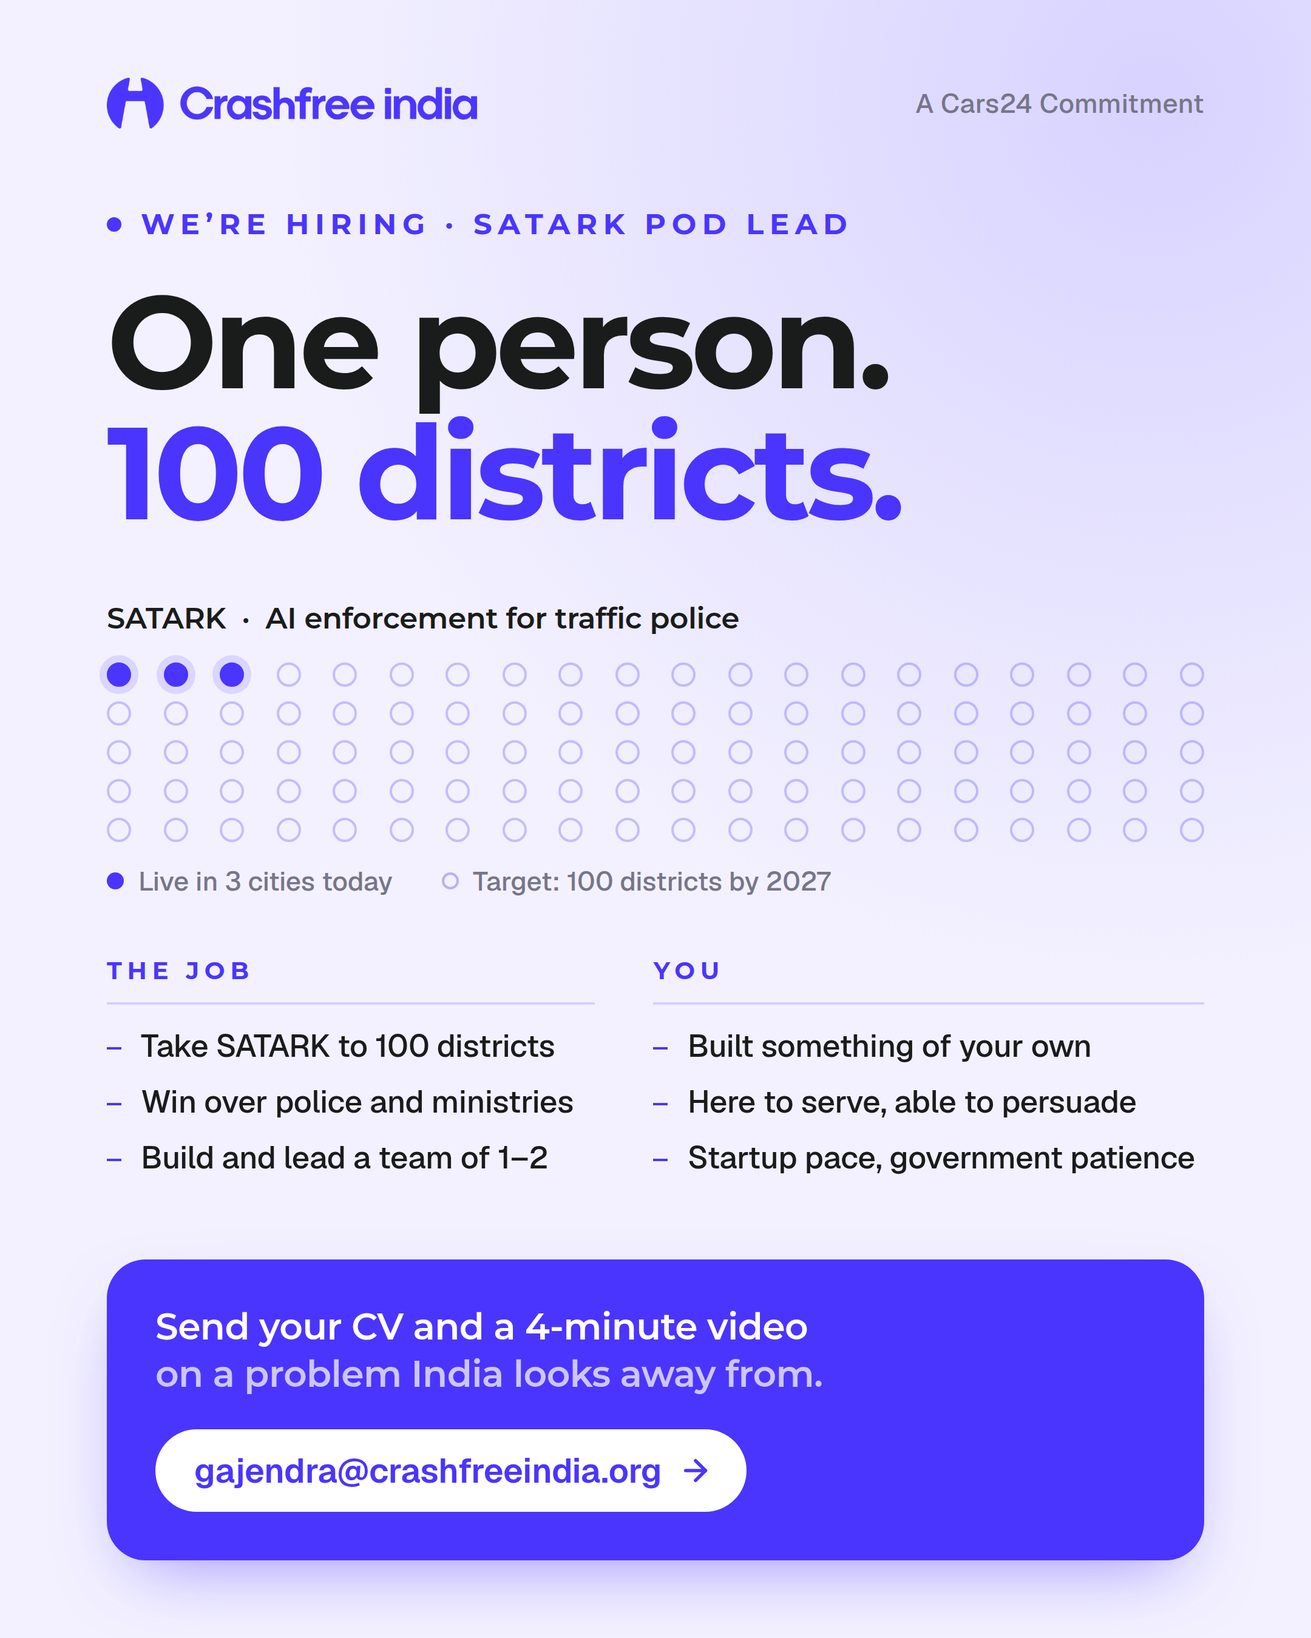
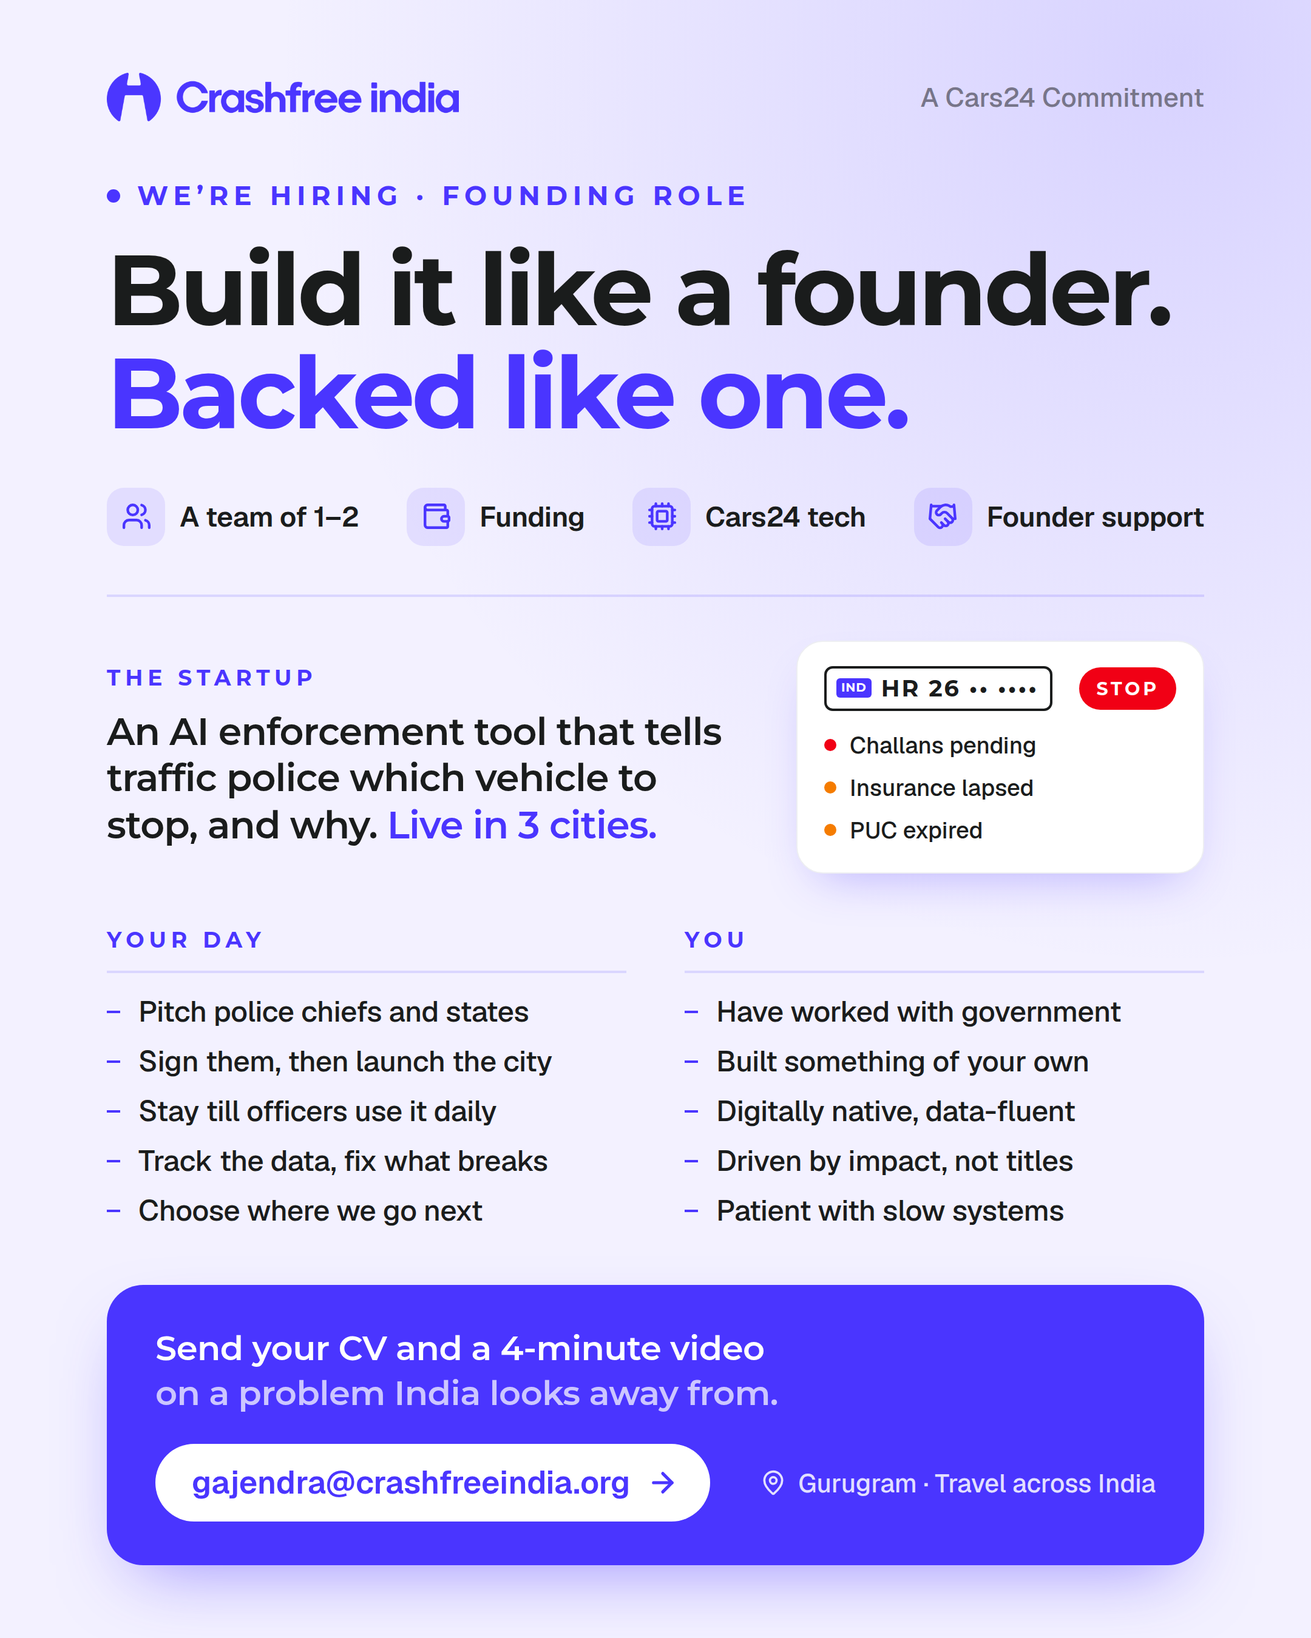
LinkedIn poster v2: founder/backing headline, no SATARK name, clearer day and qualifications
Headline 'Build it like a founder. Backed like one.' with team/funding/tech/founder
support strip; product described as an AI enforcement startup with an illustrative
alert card; 'Your day' and 'You' lists expanded. Post copy rewritten to match.

Claude-Session: https://claude.ai/code/session_018j4A9e7gCuU8GZCtHhJEqG

diff --git a/hiring/outreach/linkedin/poster.html b/hiring/outreach/linkedin/poster.html
@@ -2,10 +2,10 @@
 <html lang="en">
 <head>
 <meta charset="utf-8">
-<title>SATARK Pod Lead</title>
+<title>Founding Role</title>
 <link rel="preconnect" href="https://fonts.googleapis.com">
 <link href="https://fonts.googleapis.com/css2?family=Geist:wght@400;500;600&family=Montserrat:wght@500;600;700&display=swap" rel="stylesheet">
-<!-- Render: 1080x1350 viewport, deviceScaleFactor 2, screenshot -> 2160x2700 PNG (LinkedIn 4:5). -->
+<!-- Render: 1080x1350 viewport, deviceScaleFactor 2, screenshot -> 2160x2700 PNG (LinkedIn 4:5). Icons: Lucide (ISC). -->
 <style>
 
   :root {
@@ -14,176 +14,142 @@
     --fg: #1A1C1C;
     --muted: #777589;
     --border: #EDEEF2;
+    --danger: #F10015;
+    --warn: #F57C00;
     --white: #FFFFFF;
   }
   * { box-sizing: border-box; margin: 0; padding: 0; }
   html, body { width: 1080px; height: 1350px; }
-  body {
-    background: var(--brand-lite);
-    font-family: "Geist", sans-serif;
-    color: var(--fg);
-    -webkit-font-smoothing: antialiased;
-  }
-  .poster {
-    position: relative;
-    width: 1080px; height: 1350px;
-    padding: 64px 88px 64px;
-    overflow: hidden;
-    display: flex; flex-direction: column;
-  }
-  /* single radial brand glow (the only gradient the system allows) */
-  .glow {
-    position: absolute; inset: 0; pointer-events: none;
-    background: radial-gradient(circle at 88% 6%, rgba(74,53,255,0.16), rgba(74,53,255,0) 46%);
-  }
+  body { background: var(--brand-lite); font-family: "Geist", sans-serif; color: var(--fg); -webkit-font-smoothing: antialiased; }
+  .poster { position: relative; width: 1080px; height: 1350px; padding: 60px 88px 60px; overflow: hidden; display: flex; flex-direction: column; }
+  .glow { position: absolute; inset: 0; pointer-events: none;
+    background: radial-gradient(circle at 90% 4%, rgba(74,53,255,0.16), rgba(74,53,255,0) 46%); }
   .poster > *:not(.glow) { position: relative; }
 
-  /* top bar */
   .top { display: flex; align-items: center; justify-content: space-between; }
-  .top img { height: 42px; display: block; }
-  .top .partner { font-family: "Geist"; font-weight: 500; font-size: 22px; color: var(--muted); letter-spacing: 0.01em; }
+  .top img { height: 40px; display: block; }
+  .top .partner { font-weight: 500; font-size: 22px; color: var(--muted); }
 
-  /* hero */
-  .eyebrow {
-    margin-top: 64px;
-    display: inline-flex; align-items: center; gap: 16px;
-    font-family: "Montserrat"; font-weight: 700; font-size: 24px;
-    letter-spacing: 0.2em; color: var(--brand);
-  }
-  .eyebrow .dot { width: 12px; height: 12px; border-radius: 50%; background: var(--brand); }
-  h1 {
-    margin-top: 28px;
-    font-family: "Montserrat"; font-weight: 700;
-    font-size: 108px; line-height: 1.0; letter-spacing: -0.035em;
-  }
+  .eyebrow { margin-top: 48px; display: inline-flex; align-items: center; gap: 14px;
+    font-family: "Montserrat"; font-weight: 700; font-size: 22px; letter-spacing: 0.2em; color: var(--brand); }
+  .eyebrow .dot { width: 11px; height: 11px; border-radius: 50%; background: var(--brand); }
+
+  h1 { margin-top: 22px; font-family: "Montserrat"; font-weight: 700;
+    font-size: 82px; line-height: 1.04; letter-spacing: -0.035em; }
   h1 .accent { color: var(--brand); }
 
-  /* SATARK band: 100 districts as 100 dots */
-  .band { margin-top: 52px; }
-  .band-title {
-    display: flex; align-items: baseline; justify-content: space-between;
-    font-family: "Montserrat"; font-weight: 600; font-size: 24px; color: var(--fg);
-    letter-spacing: -0.005em;
-  }
-  .dots {
-    margin-top: 22px;
-    display: grid; grid-template-columns: repeat(20, 20px); justify-content: space-between; row-gap: 12px;
-  }
-  .dots span {
-    width: 20px; height: 20px; border-radius: 50%;
-    border: 2px solid rgba(74,53,255,0.28);
-  }
-  .dots span.live { background: var(--brand); border-color: var(--brand); box-shadow: 0 0 0 6px rgba(74,53,255,0.14); }
-  .legend { margin-top: 18px; display: flex; gap: 40px; }
-  .legend div {
-    display: flex; align-items: center; gap: 12px;
-    font-family: "Geist"; font-weight: 500; font-size: 22px; color: var(--muted);
-  }
-  .legend i { width: 14px; height: 14px; border-radius: 50%; flex: none; }
-  .legend i.live { background: var(--brand); }
-  .legend i.next { border: 2px solid rgba(74,53,255,0.35); }
+  /* the backing, made explicit */
+  .backing { margin-top: 34px; display: grid; grid-template-columns: repeat(4, auto); justify-content: space-between; }
+  .backing div { display: flex; align-items: center; gap: 12px; font-weight: 600; font-size: 23px; letter-spacing: -0.01em; }
+  .backing .ic { width: 48px; height: 48px; border-radius: 14px; background: rgba(74,53,255,0.10); color: var(--brand);
+    display: flex; align-items: center; justify-content: center; flex: none; }
+  .backing .ic svg { width: 25px; height: 25px; stroke-width: 2.1; }
 
-  /* job / you, side by side */
-  .cols { margin-top: 48px; display: grid; grid-template-columns: minmax(0, 0.94fr) minmax(0, 1.06fr); column-gap: 48px; }
-  .label {
-    font-family: "Montserrat"; font-weight: 700; font-size: 20px;
-    letter-spacing: 0.22em; color: var(--brand);
-    padding-bottom: 14px; border-bottom: 2px solid rgba(74,53,255,0.18);
-  }
-  ul { list-style: none; margin-top: 18px; }
-  li {
-    font-family: "Geist"; font-weight: 500; font-size: 26px; line-height: 1.3;
-    letter-spacing: -0.01em; white-space: nowrap;
-    padding-left: 28px; position: relative;
-  }
-  li + li { margin-top: 12px; }
-  li::before {
-    content: ""; position: absolute; left: 0; top: 17px;
-    width: 12px; height: 2px; background: var(--brand);
-  }
+  /* the startup: statement + illustrative alert card */
+  .startup { margin-top: 40px; padding-top: 36px; border-top: 2px solid rgba(74,53,255,0.14);
+    display: grid; grid-template-columns: 1fr 336px; column-gap: 44px; align-items: center; }
+  .label { font-family: "Montserrat"; font-weight: 700; font-size: 18px; letter-spacing: 0.22em; color: var(--brand); }
+  .startup p { margin-top: 14px; font-family: "Montserrat"; font-weight: 600; font-size: 31px; line-height: 1.24; letter-spacing: -0.015em; }
+  .startup p .soft { color: var(--brand); }
 
-  /* CTA */
-  .cta {
-    margin-top: auto;
-    background: var(--brand); color: var(--white);
-    border-radius: 32px; padding: 36px 40px 40px;
-    box-shadow: 0 24px 60px -24px rgba(74,53,255,0.55);
-  }
-  .cta p {
-    font-family: "Montserrat"; font-weight: 600; font-size: 30px; line-height: 1.3;
-    letter-spacing: -0.01em;
-  }
+  .card { background: var(--white); border: 1px solid var(--border); border-radius: 22px; padding: 20px 22px 22px;
+    box-shadow: 0 18px 40px -18px rgba(74,53,255,0.35); }
+  .card .head { display: flex; align-items: center; justify-content: space-between; }
+  .plate { font-family: "Montserrat"; font-weight: 700; font-size: 19px; letter-spacing: 0.08em;
+    border: 2px solid var(--fg); border-radius: 7px; padding: 5px 10px 5px 8px; display: inline-flex; align-items: center; gap: 8px; }
+  .plate i { font-style: normal; font-size: 10px; letter-spacing: 0.04em; background: var(--brand); color: var(--white);
+    border-radius: 3px; padding: 3px 4px; line-height: 1; }
+  .stop { background: var(--danger); color: var(--white); font-family: "Montserrat"; font-weight: 700; font-size: 15px;
+    letter-spacing: 0.16em; border-radius: 999px; padding: 8px 14px; }
+  .rows { margin-top: 16px; display: flex; flex-direction: column; gap: 10px; }
+  .rows div { display: flex; align-items: center; gap: 11px; font-weight: 500; font-size: 19px; }
+  .rows b { width: 10px; height: 10px; border-radius: 50%; flex: none; }
+  .rows b.r { background: var(--danger); } .rows b.o { background: var(--warn); }
+
+  /* job + you */
+  .cols { margin-top: 44px; display: grid; grid-template-columns: minmax(0, 1fr) minmax(0, 1fr); column-gap: 48px; }
+  .cols .label { padding-bottom: 14px; border-bottom: 2px solid rgba(74,53,255,0.14); }
+  ul { list-style: none; margin-top: 16px; }
+  li { font-weight: 500; font-size: 24px; line-height: 1.3; letter-spacing: -0.01em; white-space: nowrap; padding-left: 26px; position: relative; }
+  li + li { margin-top: 10px; }
+  li::before { content: ""; position: absolute; left: 0; top: 15px; width: 11px; height: 2px; background: var(--brand); }
+
+  .cta { margin-top: auto; background: var(--brand); color: var(--white); border-radius: 30px; padding: 34px 40px 36px;
+    box-shadow: 0 24px 60px -24px rgba(74,53,255,0.55); }
+  .cta p { font-family: "Montserrat"; font-weight: 600; font-size: 28px; line-height: 1.3; letter-spacing: -0.01em; }
   .cta p .soft { color: rgba(255,255,255,0.72); }
-  .cta .row { margin-top: 26px; display: flex; align-items: center; justify-content: space-between; }
-  .pill {
-    display: inline-flex; align-items: center; gap: 14px;
-    background: var(--white); color: var(--brand);
-    height: 68px; padding: 0 28px 0 32px; border-radius: 999px;
-    font-family: "Geist"; font-weight: 600; font-size: 28px; letter-spacing: -0.005em;
-  }
-  .pill svg { width: 28px; height: 28px; }
-  .meta {
-    display: flex; flex-direction: column; align-items: flex-end; gap: 6px;
-    font-family: "Geist"; font-weight: 500; font-size: 19px; color: rgba(255,255,255,0.78);
-  }
+  .cta .row { margin-top: 24px; display: flex; align-items: center; justify-content: space-between; }
+  .pill { display: inline-flex; align-items: center; gap: 14px; background: var(--white); color: var(--brand);
+    height: 64px; padding: 0 26px 0 30px; border-radius: 999px; font-weight: 600; font-size: 26px; }
+  .pill svg { width: 26px; height: 26px; stroke-width: 2.4; }
+  .meta { display: flex; align-items: center; gap: 10px; font-weight: 500; font-size: 21px; color: rgba(255,255,255,0.85); }
+  .meta svg { width: 22px; height: 22px; stroke-width: 2; }
 </style>
 </head>
 <body>
-  <div class="poster">
-    <div class="glow" aria-hidden="true"></div>
+<div class="poster">
+  <div class="glow" aria-hidden="true"></div>
 
-    <div class="top">
-      <img src="cfi_logo_blue_t.png" alt="Crashfree India">
-      <div class="partner">A Cars24 Commitment</div>
+  <div class="top">
+    <img src="cfi_logo_blue_t.png" alt="Crashfree India">
+    <div class="partner">A Cars24 Commitment</div>
+  </div>
+
+  <div class="eyebrow"><span class="dot"></span>WE’RE HIRING · FOUNDING ROLE</div>
+  <h1>Build it like a founder.<br><span class="accent">Backed like one.</span></h1>
+
+  <div class="backing">
+    <div><span class="ic"><svg xmlns="http://www.w3.org/2000/svg" viewBox="0 0 24 24" fill="none" stroke="currentColor" stroke-width="2" stroke-linecap="round" stroke-linejoin="round" > <path d="M16 21v-2a4 4 0 0 0-4-4H6a4 4 0 0 0-4 4v2" /> <path d="M16 3.128a4 4 0 0 1 0 7.744" /> <path d="M22 21v-2a4 4 0 0 0-3-3.87" /> <circle cx="9" cy="7" r="4" /> </svg></span>A team of 1–2</div>
+    <div><span class="ic"><svg xmlns="http://www.w3.org/2000/svg" viewBox="0 0 24 24" fill="none" stroke="currentColor" stroke-width="2" stroke-linecap="round" stroke-linejoin="round" > <path d="M19 7V4a1 1 0 0 0-1-1H5a2 2 0 0 0 0 4h15a1 1 0 0 1 1 1v4h-3a2 2 0 0 0 0 4h3a1 1 0 0 0 1-1v-2a1 1 0 0 0-1-1" /> <path d="M3 5v14a2 2 0 0 0 2 2h15a1 1 0 0 0 1-1v-4" /> </svg></span>Funding</div>
+    <div><span class="ic"><svg xmlns="http://www.w3.org/2000/svg" viewBox="0 0 24 24" fill="none" stroke="currentColor" stroke-width="2" stroke-linecap="round" stroke-linejoin="round" > <path d="M12 20v2" /> <path d="M12 2v2" /> <path d="M17 20v2" /> <path d="M17 2v2" /> <path d="M2 12h2" /> <path d="M2 17h2" /> <path d="M2 7h2" /> <path d="M20 12h2" /> <path d="M20 17h2" /> <path d="M20 7h2" /> <path d="M7 20v2" /> <path d="M7 2v2" /> <rect x="4" y="4" width="16" height="16" rx="2" /> <rect x="8" y="8" width="8" height="8" rx="1" /> </svg></span>Cars24 tech</div>
+    <div><span class="ic"><svg xmlns="http://www.w3.org/2000/svg" viewBox="0 0 24 24" fill="none" stroke="currentColor" stroke-width="2" stroke-linecap="round" stroke-linejoin="round" > <path d="m11 17 2 2a1 1 0 1 0 3-3" /> <path d="m14 14 2.5 2.5a1 1 0 1 0 3-3l-3.88-3.88a3 3 0 0 0-4.24 0l-.88.88a1 1 0 1 1-3-3l2.81-2.81a5.79 5.79 0 0 1 7.06-.87l.47.28a2 2 0 0 0 1.42.25L21 4" /> <path d="m21 3 1 11h-2" /> <path d="M3 3 2 14l6.5 6.5a1 1 0 1 0 3-3" /> <path d="M3 4h8" /> </svg></span>Founder support</div>
+  </div>
+
+  <div class="startup">
+    <div>
+      <div class="label">THE STARTUP</div>
+      <p>An AI enforcement tool that tells traffic police which vehicle to stop, and why. <span class="soft">Live in 3 cities.</span></p>
     </div>
-
-    <div class="eyebrow"><span class="dot"></span>WE’RE HIRING · SATARK POD LEAD</div>
-    <h1>One person.<br><span class="accent">100 districts.</span></h1>
-
-    <div class="band">
-      <div class="band-title">SATARK &nbsp;·&nbsp; AI enforcement for traffic police</div>
-      <div class="dots" id="dots"></div>
-      <div class="legend">
-        <div><i class="live"></i>Live in 3 cities today</div>
-        <div><i class="next"></i>Target: 100 districts by 2027</div>
-      </div>
-    </div>
-
-    <div class="cols">
-      <div>
-        <div class="label">THE JOB</div>
-        <ul>
-          <li>Take SATARK to 100 districts</li>
-          <li>Win over police and ministries</li>
-          <li>Build and lead a team of 1–2</li>
-        </ul>
-      </div>
-      <div>
-        <div class="label">YOU</div>
-        <ul>
-          <li>Built something of your own</li>
-          <li>Here to serve, able to persuade</li>
-          <li>Startup pace, government patience</li>
-        </ul>
-      </div>
-    </div>
-
-    <div class="cta">
-      <p>Send your CV and a 4-minute video<br><span class="soft">on a problem India looks away from.</span></p>
-      <div class="row">
-        <div class="pill">gajendra@crashfreeindia.org
-          <svg viewBox="0 0 24 24" fill="none" stroke="currentColor" stroke-width="2.4" stroke-linecap="round" stroke-linejoin="round"><path d="M5 12h14"/><path d="m12 5 7 7-7 7"/></svg>
-        </div>
+    <div class="card" aria-hidden="true">
+      <div class="head"><span class="plate"><i>IND</i>HR 26 •• ••••</span><span class="stop">STOP</span></div>
+      <div class="rows">
+        <div><b class="r"></b>Challans pending</div>
+        <div><b class="o"></b>Insurance lapsed</div>
+        <div><b class="o"></b>PUC expired</div>
       </div>
     </div>
   </div>
-<script>
-  const d = document.getElementById('dots');
-  for (let i = 0; i < 100; i++) {
-    const s = document.createElement('span');
-    if (i < 3) s.className = 'live';
-    d.appendChild(s);
-  }
-</script>
+
+  <div class="cols">
+    <div>
+      <div class="label">YOUR DAY</div>
+      <ul>
+        <li>Pitch police chiefs and states</li>
+        <li>Sign them, then launch the city</li>
+        <li>Stay till officers use it daily</li>
+        <li>Track the data, fix what breaks</li>
+        <li>Choose where we go next</li>
+      </ul>
+    </div>
+    <div>
+      <div class="label">YOU</div>
+      <ul>
+        <li>Have worked with government</li>
+        <li>Built something of your own</li>
+        <li>Digitally native, data-fluent</li>
+        <li>Driven by impact, not titles</li>
+        <li>Patient with slow systems</li>
+      </ul>
+    </div>
+  </div>
+
+  <div class="cta">
+    <p>Send your CV and a 4-minute video<br><span class="soft">on a problem India looks away from.</span></p>
+    <div class="row">
+      <div class="pill">gajendra@crashfreeindia.org <svg xmlns="http://www.w3.org/2000/svg" viewBox="0 0 24 24" fill="none" stroke="currentColor" stroke-width="2" stroke-linecap="round" stroke-linejoin="round" > <path d="M5 12h14" /> <path d="m12 5 7 7-7 7" /> </svg></div>
+      <div class="meta"><svg xmlns="http://www.w3.org/2000/svg" viewBox="0 0 24 24" fill="none" stroke="currentColor" stroke-width="2" stroke-linecap="round" stroke-linejoin="round" > <path d="M20 10c0 4.993-5.539 10.193-7.399 11.799a1 1 0 0 1-1.202 0C9.539 20.193 4 14.993 4 10a8 8 0 0 1 16 0" /> <circle cx="12" cy="10" r="3" /> </svg>Gurugram · Travel across India</div>
+    </div>
+  </div>
+</div>
 </body>
 </html>

diff --git a/hiring/outreach/linkedin/LinkedIn_Post.md b/hiring/outreach/linkedin/LinkedIn_Post.md
@@ -1,35 +1,36 @@
-# SATARK Pod Lead — LinkedIn post (founders)
+# Founding Role (SATARK Pod Lead) — LinkedIn post (founders)
 
-**Status:** DRAFT for review — do not post until approved.
+**Status:** DRAFT v2 for review — do not post until approved.
 **Image:** `SATARK_Pod_Lead_LinkedIn_Poster.png` (2160×2700, 4:5). Source: `poster.html`.
+**v2 (25 Sep):** per Akhtar — founder/backing framing leads; SATARK not named (nobody outside knows it); described as an AI enforcement startup; clearer day-to-day and qualifications; 100 districts dropped as the USP.
 
 ---
 
 ## Post (Gajendra)
 
-I'm hiring one person to take a system that already works in 3 cities to 100 districts.
+Build it like a founder. We'll back you like one.
 
-India loses around 1.7 lakh people on its roads every year. Much of it is systemic: violations get caught, challans get issued, and then nothing happens.
+I'm hiring for a founding role at Crashfree India, Cars24's long-term commitment to road safety.
 
-SATARK closes that gap. It reads a number plate, checks it against government records, and tells a traffic officer which vehicle to stop, and why, in about ten seconds. It began as the Challan Billboard at Bengaluru's Trinity Circle. Today it runs with the police in Jaipur, Bengaluru and Gurugram.
+The startup is an AI enforcement tool that tells traffic police which vehicle to stop, and why, in about ten seconds. It began as the Challan Billboard at Bengaluru's Trinity Circle. Today it runs with the police in three cities. Next, it goes national.
 
-Next: the 100 districts where India loses the most lives, by the end of 2027.
+Why it matters: India loses around 1.7 lakh people on its roads every year, and much of it is systemic. Violations get caught, challans get issued, and then nothing happens.
 
-The role is SATARK Pod Lead at Crashfree India, our long-term commitment at Cars24. You'd build and run it like your own company: win over police commissioners and ministries, and stay until officers are actually stopping vehicles. A team of one or two, with Cars24's engineering and funding behind you.
+Your day: pitch police chiefs and state governments, sign them, launch the city, and stay until officers use it every day. Track the data, fix what breaks, decide where we go next.
 
-It's slow rooms and months where nothing moves. Then a district goes live.
+You: have worked with government, have built something of your own, are digitally native, and are driven by impact, not titles.
 
-To apply, email gajendra@crashfreeindia.org with the subject "SATARK Pod Lead":
-- Your CV
-- A 4-minute video on a problem India looks away from. Convince me it matters.
+Behind you: a team of one or two, funding, Cars24's tech, and a direct line to Cars24's founders.
+
+To apply, email gajendra@crashfreeindia.org with the subject "Founding Role": your CV, and a 4-minute video on a problem India looks away from. Convince me it matters.
 
 We're not testing polish. We're testing conviction.
 
-Based in Gurugram, with travel across India.
+Gurugram, with travel across India.
 
 ## Reshare line (other founders)
 
-We're looking for someone to take SATARK from 3 cities to 100 districts. If you know a person who has built something and wants to serve, send them this.
+We're hiring for a founding role at Crashfree India: build an AI enforcement startup with Cars24 behind you. If you know someone who has worked with government and wants to build, send this their way.
 
 ## Optional first comment
 
@@ -38,7 +39,8 @@ The billboard that started it: https://www.deccanherald.com/india/karnataka/beng
 ---
 
 ## Verify before posting
-- "3 cities live" (Jaipur, Bengaluru, Gurugram) — same deck figure as the brief; confirm internally.
+- "Live in 3 cities" (Jaipur, Bengaluru, Gurugram) — same deck figure as the brief; confirm internally.
 - "around 1.7 lakh" deaths/year — matches the sent email; MoRTH's latest annual report is the source to cite if asked.
-- "100 districts by end of 2027" is a target, not a commitment already met — the poster labels it "Target".
+- "Funding" and "a direct line to Cars24's founders" — the brief says the lead works directly with Crashfree India's leadership and Cars24's founders; confirm Gajendra is comfortable promising this publicly.
+- The poster's alert card is an illustration (masked plate), not a product screenshot.
 - No deadline is stated publicly on purpose; add one if you want to close intake.
